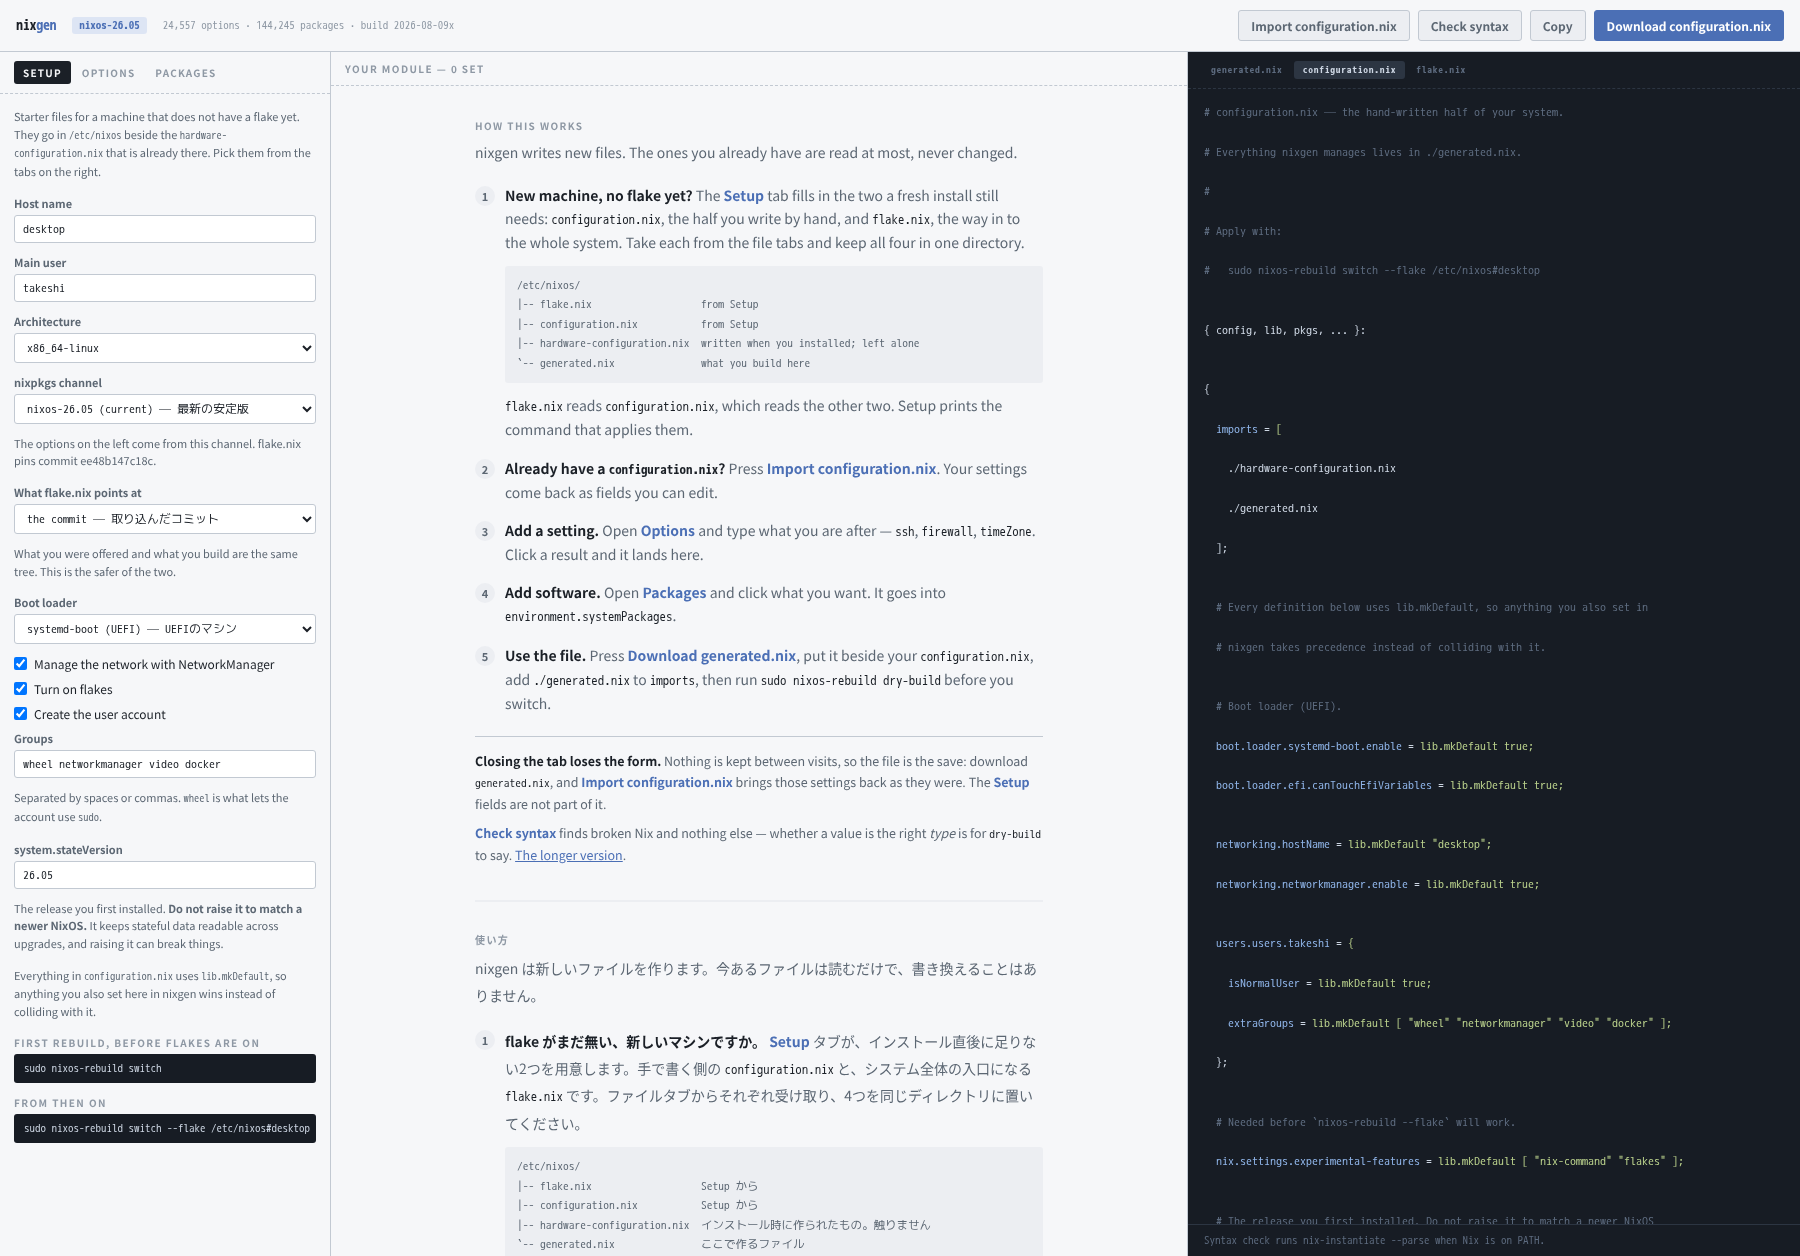
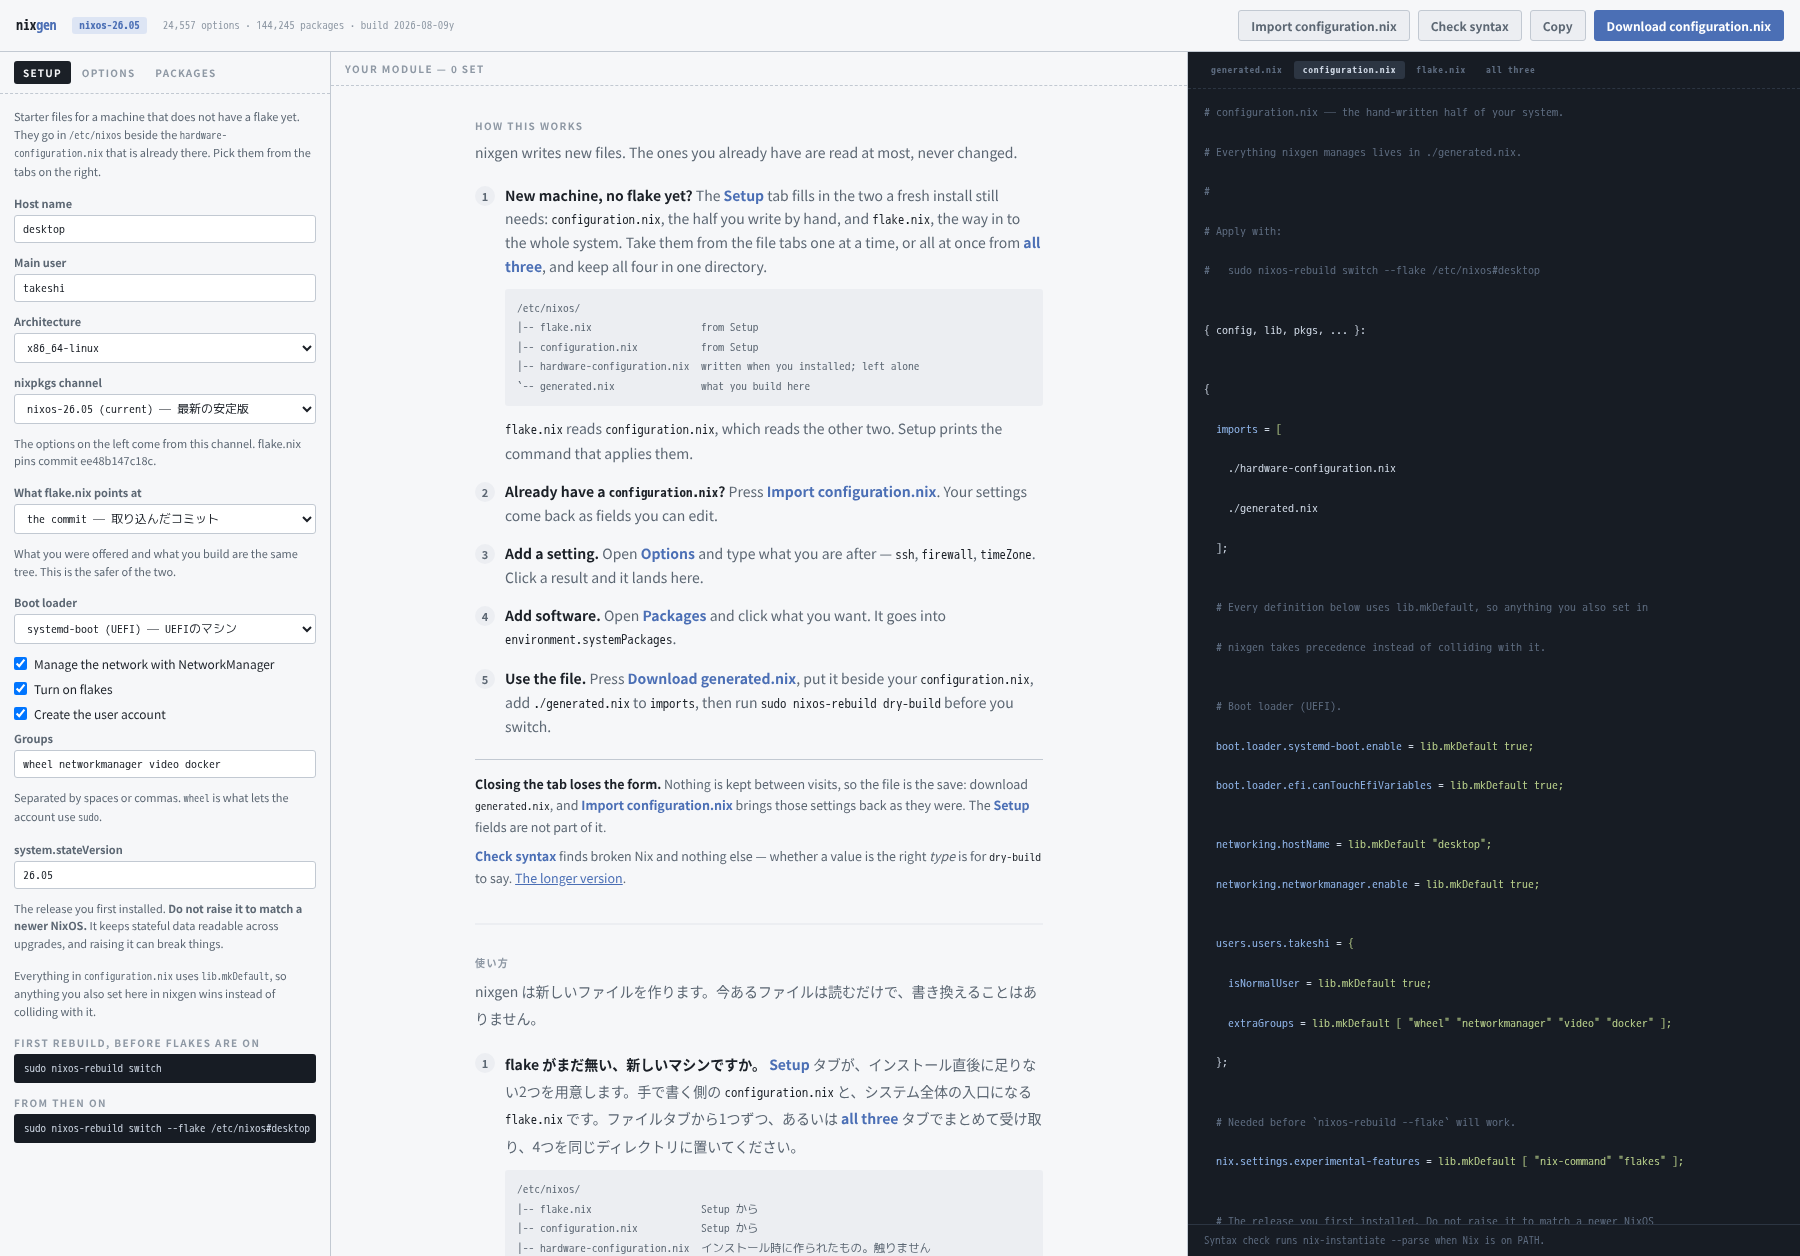
Add an "all three" tab that downloads the files as one archive
A fourth file tab rather than a fifth header button: the Download button
already follows whichever tab is selected, so taking all three is the
same gesture as taking one.

tar.gz and not zip because of who is on the other end — a NixOS install
has tar and gzip and does not have unzip. Everything sits inside a
directory named after the host, so extracting cannot land a
configuration.nix on top of one already in the directory. Fixed mtimes
and modes, so the same three files always produce the same bytes.

Check syntax on that tab parses all three and names the one that failed.

Changed region(s): [[0.2489, 0.1863, 0.5911, 0.7142], [0.2489, 0.7452, 0.5911, 1.0]]

diff --git a/build/static/app.js b/build/static/app.js
@@ -2,7 +2,7 @@
 
 /* Shown in the header. Bump it whenever this file changes, so "the fix did not
    work" can be told apart from "the old file is still being served". */
-const BUILD = '2026-08-09x';
+const BUILD = '2026-08-09y';
 
 const $  = (s, r = document) => r.querySelector(s);
 const $$ = (s, r = document) => [...r.querySelectorAll(s)];
@@ -529,6 +529,7 @@ function showFile(name) {
   $$('.filetabs .tab').forEach(x =>
     x.setAttribute('aria-selected', String(x.dataset.file === name)));
   $('#btn-dl').textContent = 'Download ' + name;
+  $('#btn-copy').hidden = name === ALL;   // there is nothing here to paste
   paintCode(currentText());
 }
 
@@ -1367,7 +1368,48 @@ function flashCard(path) {
 
 let renderTimer, generatedText = '';
 
+const ALL = 'all three';
+
+/* The name the archive and its directory get, kept in step with bundle_name()
+   in server.py — the client shows it before the download and the server is
+   what decides it, so the two have to agree or the command printed here names
+   a file that did not arrive. */
+function bundleName() {
+  const clean = ($('#s-host').value || '').trim()
+    .replace(/[^A-Za-z0-9._-]/g, '').replace(/^[.-]+|[.-]+$/g, '');
+  return clean || 'nixos';
+}
+
+/* What the `all three` tab shows. Every line is a comment, so the pane
+   highlights it like the files either side of it and Check syntax has nothing
+   to trip over. What it does not hold is said outright: the fourth file in
+   that directory is the machine's own and nixgen never touches it. */
+function bundleSummary() {
+  const n = bundleName();
+  return `# Download all three — one file holding the three nixgen wrote.
+#
+#   ${n}.tar.gz
+#   \`-- ${n}/
+#       |-- configuration.nix   the half you write by hand
+#       |-- flake.nix           the way in to the whole system
+#       \`-- generated.nix       what you built here
+#
+# Unpack it where you want the three to end up:
+#
+#   tar -xzf ${n}.tar.gz
+#
+# tar and gzip are on a NixOS install already; unzip is not, which is why
+# this is not a .zip.
+#
+# hardware-configuration.nix is not in here. It was written when you
+# installed and describes this machine's disks — keep the one you have.
+#
+# Check syntax on this tab parses all three.
+`;
+}
+
 function currentText() {
+  if (state.file === ALL) return bundleSummary();
   return state.file === 'generated.nix'
     ? generatedText
     : (state.starter[state.file] || '');
@@ -1589,23 +1631,67 @@ $('#btn-copy').addEventListener('click', async () => {
   }
 });
 
-$('#btn-dl').addEventListener('click', () => {
-  const blob = new Blob([currentText()], { type: 'text/plain' });
+function saveBlob(blob, name) {
   const a = el('a');
   a.href = URL.createObjectURL(blob);
-  a.download = state.file;
+  a.download = name;
   a.click();
   URL.revokeObjectURL(a.href);
+}
+
+/* The three files are already here; the server builds the archive because
+   Python has tarfile and the browser has nothing that writes a tar. */
+async function downloadBundle() {
+  const n = bundleName();
+  setStatus('Packing…');
+  const res = await fetch('/api/bundle', {
+    method: 'POST',
+    headers: { 'Content-Type': 'application/json' },
+    body: JSON.stringify({
+      host: $('#s-host').value,
+      files: {
+        'configuration.nix': state.starter['configuration.nix'] || '',
+        'flake.nix': state.starter['flake.nix'] || '',
+        'generated.nix': generatedText,
+      },
+    }),
+  });
+  if (!res.ok) return setStatus('Could not build the archive.', 'bad');
+  saveBlob(await res.blob(), n + '.tar.gz');
+  setStatus(`${n}.tar.gz — three files under ${n}/. Unpack it with ` +
+            `tar -xzf ${n}.tar.gz. hardware-configuration.nix is not in it: ` +
+            `keep the one this machine already has.`, 'ok');
+}
+
+$('#btn-dl').addEventListener('click', () => {
+  if (state.file === ALL) return downloadBundle();
+  saveBlob(new Blob([currentText()], { type: 'text/plain' }), state.file);
 });
+
+const checkText = text => fetch('/api/validate', {
+  method: 'POST',
+  headers: { 'Content-Type': 'application/json' },
+  body: JSON.stringify({ text }),
+}).then(r => r.json());
 
 $('#btn-check').addEventListener('click', async () => {
   setStatus('Checking…');
-  const r = await fetch('/api/validate', {
-    method: 'POST',
-    headers: { 'Content-Type': 'application/json' },
-    body: JSON.stringify({ text: currentText() }),
-  }).then(r => r.json());
-  setStatus(r.message, r.ok === true ? 'ok' : r.ok === false ? 'bad' : '');
+  if (state.file !== ALL) {
+    const r = await checkText(currentText());
+    return setStatus(r.message, r.ok === true ? 'ok' : r.ok === false ? 'bad' : '');
+  }
+  /* On the archive tab there is no one file to check, so it checks the three
+     that are about to be downloaded and names which of them failed — a report
+     that says only "parses cleanly" would not say what did. */
+  const names = ['generated.nix', 'configuration.nix', 'flake.nix'];
+  const texts = [generatedText, state.starter['configuration.nix'] || '',
+                 state.starter['flake.nix'] || ''];
+  const rs = await Promise.all(texts.map(checkText));
+  if (rs.some(r => r.ok === null)) return setStatus(rs[0].message, '');
+  const bad = names.filter((_, i) => rs[i].ok === false);
+  if (!bad.length) return setStatus('All three parse cleanly.', 'ok');
+  setStatus(bad.map((n, i) => `${n}: ${rs[names.indexOf(n)].message}`)
+              .join('\n'), 'bad');
 });
 
 function setStatus(msg, cls = '') {

diff --git a/build/static/index.html b/build/static/index.html
@@ -226,8 +226,9 @@
             <li><b>New machine, no flake yet?</b> The <b class="w">Setup</b> tab
               fills in the two a fresh install still needs:
               <code>configuration.nix</code>, the half you write by hand, and
-              <code>flake.nix</code>, the way in to the whole system. Take each
-              from the file tabs and keep all four in one directory.
+              <code>flake.nix</code>, the way in to the whole system. Take them
+              from the file tabs one at a time, or all at once from
+              <b class="w">all three</b>, and keep all four in one directory.
               <!-- ASCII rather than box drawing: the mono stack falls back to
                    a proportional face for those glyphs on some machines, and a
                    tree that does not line up is worse than no tree. -->
@@ -277,7 +278,7 @@
             <p class="eyebrow">使い方</p>
             <p class="lede">nixgen は新しいファイルを作ります。今あるファイルは読むだけで、書き換えることはありません。</p>
             <ol>
-              <li><b>flake がまだ無い、新しいマシンですか。</b> <b class="w">Setup</b> タブが、インストール直後に足りない2つを用意します。手で書く側の <code>configuration.nix</code> と、システム全体の入口になる <code>flake.nix</code> です。ファイルタブからそれぞれ受け取り、4つを同じディレクトリに置いてください。
+              <li><b>flake がまだ無い、新しいマシンですか。</b> <b class="w">Setup</b> タブが、インストール直後に足りない2つを用意します。手で書く側の <code>configuration.nix</code> と、システム全体の入口になる <code>flake.nix</code> です。ファイルタブから1つずつ、あるいは <b class="w">all three</b> タブでまとめて受け取り、4つを同じディレクトリに置いてください。
                 <pre class="tree">/etc/nixos/
 |-- flake.nix                   Setup から
 |-- configuration.nix           Setup から
@@ -306,6 +307,10 @@
           <button class="tab" role="tab" data-file="generated.nix" aria-selected="true">generated.nix</button>
           <button class="tab" role="tab" data-file="configuration.nix" aria-selected="false">configuration.nix</button>
           <button class="tab" role="tab" data-file="flake.nix" aria-selected="false">flake.nix</button>
+          <!-- A fourth tab rather than a fifth button in the header: the
+               Download button already follows whichever tab is selected, so
+               taking all three is the same gesture as taking one of them. -->
+          <button class="tab" role="tab" data-file="all three" aria-selected="false">all three</button>
         </div>
       </header>
       <div class="pane-body"><pre class="nix notranslate" id="out" translate="no"></pre></div>

diff --git a/build/static/app.css b/build/static/app.css
@@ -374,7 +374,10 @@ pre.nix .verbatim .v { color: #d7a6f0; }
   color: var(--code-fg); font-family: var(--mono); font-size: 11px;
   border-radius: var(--r); overflow-x: auto; }
 
-/* File tabs in the output pane */
+/* File tabs in the output pane. Four of them is more than a narrow phone can
+   hold in one line, and a flex row that cannot wrap takes the page sideways
+   with it — the same thing the header buttons did. */
+.filetabs { flex-wrap: wrap; }
 .filetabs .tab { color: var(--code-dim); font-size: 9.5px; letter-spacing: .08em;
                  text-transform: none; font-family: var(--mono); }
 .filetabs .tab[aria-selected="true"] { background: #2c3542; color: var(--code-fg); }

diff --git a/build/server.py b/build/server.py
@@ -4,6 +4,8 @@
 import argparse
 import datetime
 import errno
+import gzip
+import io
 import json
 import os
 import re
@@ -11,6 +13,7 @@ import shutil
 import sqlite3
 import subprocess
 import sys
+import tarfile
 import tempfile
 import webbrowser
 from http.server import BaseHTTPRequestHandler, ThreadingHTTPServer
@@ -555,6 +558,55 @@ def validate(text):
         os.unlink(tmp)
 
 
+BUNDLE_FILES = ("configuration.nix", "flake.nix", "generated.nix")
+
+
+def bundle_name(host):
+    """A directory name for the archive, from the host name the form holds.
+
+    Anything that is not a plain name is dropped rather than escaped: this ends
+    up as a path in an archive somebody will extract, and `nixos` is a better
+    answer than a clever one.
+    """
+    clean = re.sub(r"[^A-Za-z0-9._-]", "", (host or "").strip())
+    return clean.strip(".-") or "nixos"
+
+
+def bundle(payload):
+    """The three files as one .tar.gz, for the Download all three button.
+
+    tar.gz rather than zip because of who is on the other end: NixOS ships
+    gnutar and gzip in the default system path and does not ship unzip, so
+    `tar -xzf` is a command that works on a fresh install and `unzip` is one
+    that sends you to look for a package first.
+
+    Everything is inside a directory named after the host, so extracting it
+    cannot land a configuration.nix on top of one already sitting in the
+    directory somebody happened to be in. The names are this side's, not the
+    request's, for the same reason.
+
+    Deterministic: fixed mtimes and modes, so the same three files produce the
+    same bytes and a diff of two downloads is about their contents.
+    """
+    files = payload.get("files") or {}
+    root = bundle_name(payload.get("host"))
+    buf = io.BytesIO()
+    # mtime=0 in the gzip header too — the default writes the current time,
+    # which would make every download differ from the last one.
+    with gzip.GzipFile(filename="", mode="wb", fileobj=buf, mtime=0) as gz:
+        with tarfile.open(fileobj=gz, mode="w") as tar:
+            for name in BUNDLE_FILES:
+                raw = (files.get(name) or "").encode("utf-8")
+                info = tarfile.TarInfo(f"{root}/{name}")
+                info.size = len(raw)
+                info.mtime = 0
+                info.mode = 0o644
+                info.uid = info.gid = 0
+                info.uname = info.gname = "root"
+                tar.addfile(info, io.BytesIO(raw))
+    return root, buf.getvalue()
+
+
 # ---------------------------------------------------------------- http plumbing
 
 class Handler(BaseHTTPRequestHandler):
@@ -705,6 +757,16 @@ class Handler(BaseHTTPRequestHandler):
             return self._json({"removed": removed, "bytes": freed})
         if u.path == "/api/validate":
             return self._json(validate(payload.get("text", "")))
+        if u.path == "/api/bundle":
+            root, raw = bundle(payload)
+            self.send_response(200)
+            self.send_header("Content-Type", "application/gzip")
+            self.send_header("Content-Length", str(len(raw)))
+            self.send_header("Content-Disposition",
+                             f'attachment; filename="{root}.tar.gz"')
+            self.send_header("Cache-Control", "no-store")
+            self.end_headers()
+            return self.wfile.write(raw)
         return self._send(404, b"not found", "text/plain")
 
     def _file(self, name, ctype):

diff --git a/CHANGELOG.md b/CHANGELOG.md
@@ -9,6 +9,20 @@ option counts.
 
 ## English
 
+### build 2026-08-09y
+
+- **A fourth file tab, `all three`**, whose Download button hands you
+  `configuration.nix`, `flake.nix` and `generated.nix` as one `.tar.gz`, in a
+  directory named after the host so extracting it cannot land on top of a
+  `configuration.nix` already sitting where you unpacked it.
+- **`.tar.gz` and not `.zip`** because of who is on the other end: a NixOS
+  install has `tar` and `gzip` and does not have `unzip`.
+- **Check syntax on that tab parses all three** and names the one that failed.
+- The archive is byte-for-byte the same for the same three files — fixed
+  mtimes and modes — so two downloads differ only where the contents do.
+- `hardware-configuration.nix` is not in it, and the tab says so. That file
+  describes the machine's disks and nixgen has never written it.
+
 ### build 2026-08-09x
 
 - **The Kernel dropdown is gone from the Packages tab**, where it had no
@@ -380,6 +394,14 @@ three of these six showed up in only one of the two.
 ---
 
 ## 日本語
+
+### build 2026-08-09y
+
+- **4つめのファイルタブ `all three` を追加しました。** このタブで Download を押すと、`configuration.nix`・`flake.nix`・`generated.nix` が**1つの `.tar.gz`** で出てきます。中身は**ホスト名のディレクトリ**に入れてあるので、展開した場所に既にある `configuration.nix` を**上書きしてしまうことがありません。**
+- **`.zip` ではなく `.tar.gz`** にしたのは、受け取る側の事情です。NixOS には `tar` と `gzip` が最初から入っていますが、**`unzip` は入っていません。**
+- **このタブの Check syntax は3つとも検査**し、**失敗したファイル名を挙げます。**
+- 同じ3ファイルからは**常に同一のバイト列**が出ます(更新時刻とモードを固定しているため)。2回落として差分を取れば、**中身が違う箇所だけ**が出ます。
+- `hardware-configuration.nix` は含みません。タブにもそう書いてあります。**そのマシンのディスク構成**を書いたファイルで、nixgen が書いたことは一度もありません。
 
 ### build 2026-08-09x
 

diff --git a/CLAUDE.md b/CLAUDE.md
@@ -201,6 +201,14 @@ at `nixos-rebuild`, which is the least helpful place for it to surface.
   what clears them. They name the tabs and buttons rather than where things sit
   — the panes stack and swap on a narrow screen, and "on the left" would be
   wrong exactly where a first-timer cannot afford it.
+- **The archive is a `.tar.gz` inside a directory, and both halves matter.**
+  `tar` and `gzip` are in the NixOS default system path and `unzip` is not, so
+  a zip would send someone looking for a package before they could read what
+  they downloaded. The directory is because people extract into whatever
+  directory they are in, and a flat archive would drop a `configuration.nix`
+  on top of one already there. `bundle_name` in `server.py` and `bundleName`
+  in `app.js` are the same rule twice — the client prints the command, the
+  server names the file, and a mismatch means the printed command is wrong.
 - **Every grid track and flex item that can hold wide content needs
   `minmax(0, …)` or `min-width: 0`.** Both refuse to go narrower than their
   contents by default, so one long line widens the page instead of scrolling

diff --git a/README.md b/README.md
@@ -380,6 +380,19 @@ The **Setup** tab produces the two files you need: a `configuration.nix` that
 reads in your generated settings, and a `flake.nix` that assembles the system.
 Switch between them with the tabs at the top right and download each one.
 
+**Or take all three at once.** The last of those tabs is **all three**, and the
+Download button on it hands you a `.tar.gz` holding `configuration.nix`,
+`flake.nix` and `generated.nix` in a directory named after the host:
+
+```bash
+tar -xzf desktop.tar.gz
+```
+
+It is a `.tar.gz` rather than a `.zip` because NixOS ships `tar` and `gzip` and
+does not ship `unzip`. `hardware-configuration.nix` is not in it — that one
+describes this machine's disks and is yours. **Check syntax** on that tab
+parses all three.
+
 With all four in place it looks like this:
 
 ```
